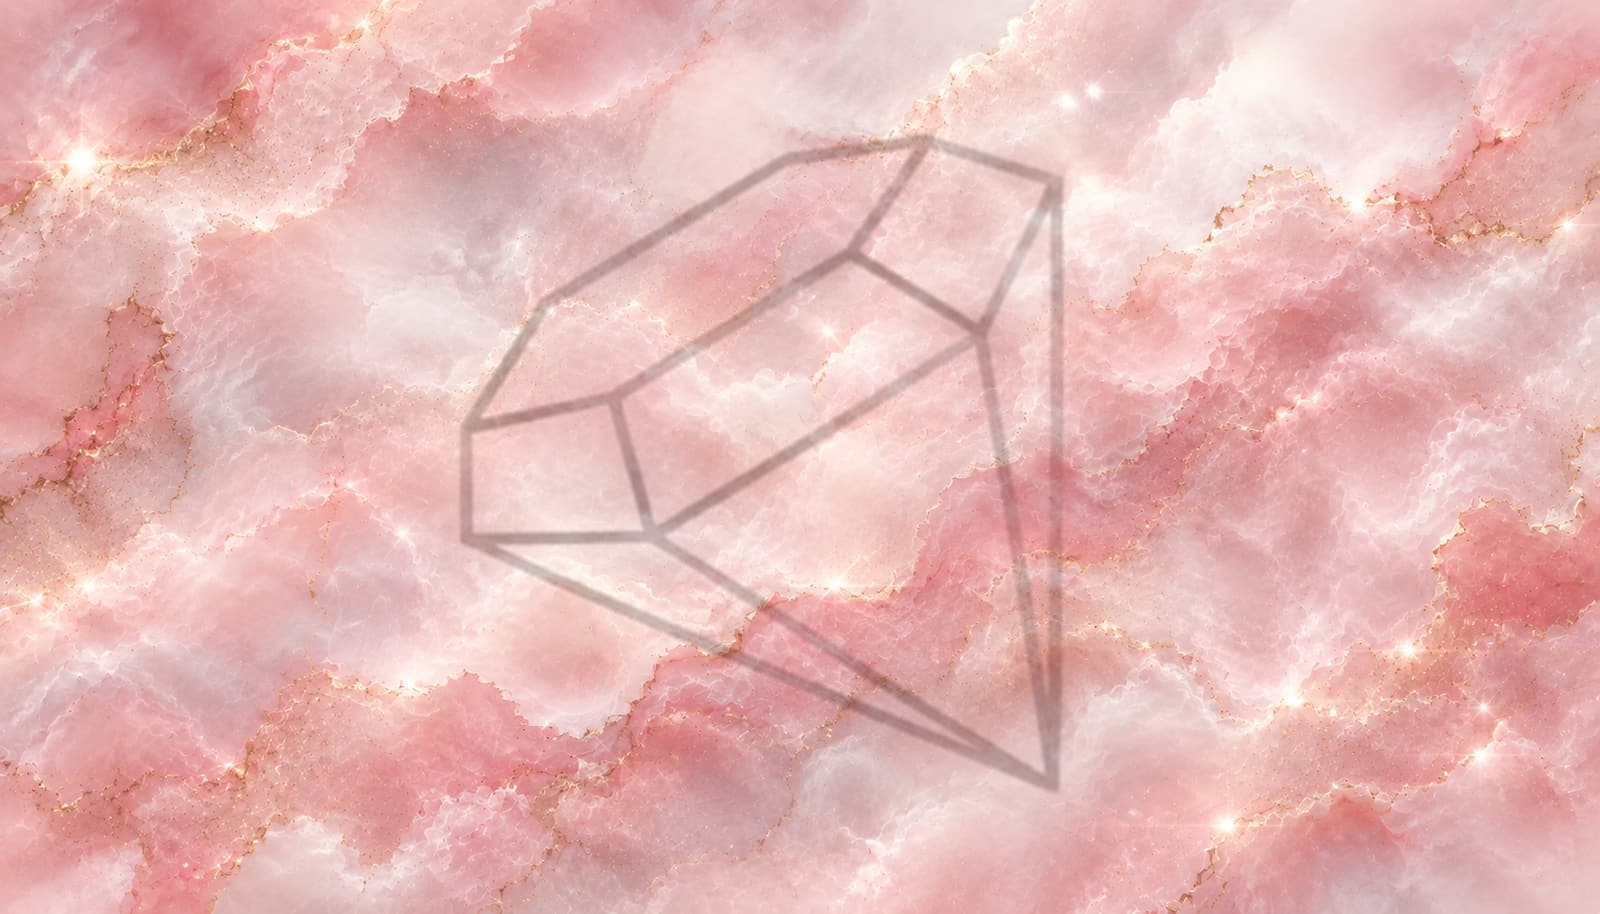
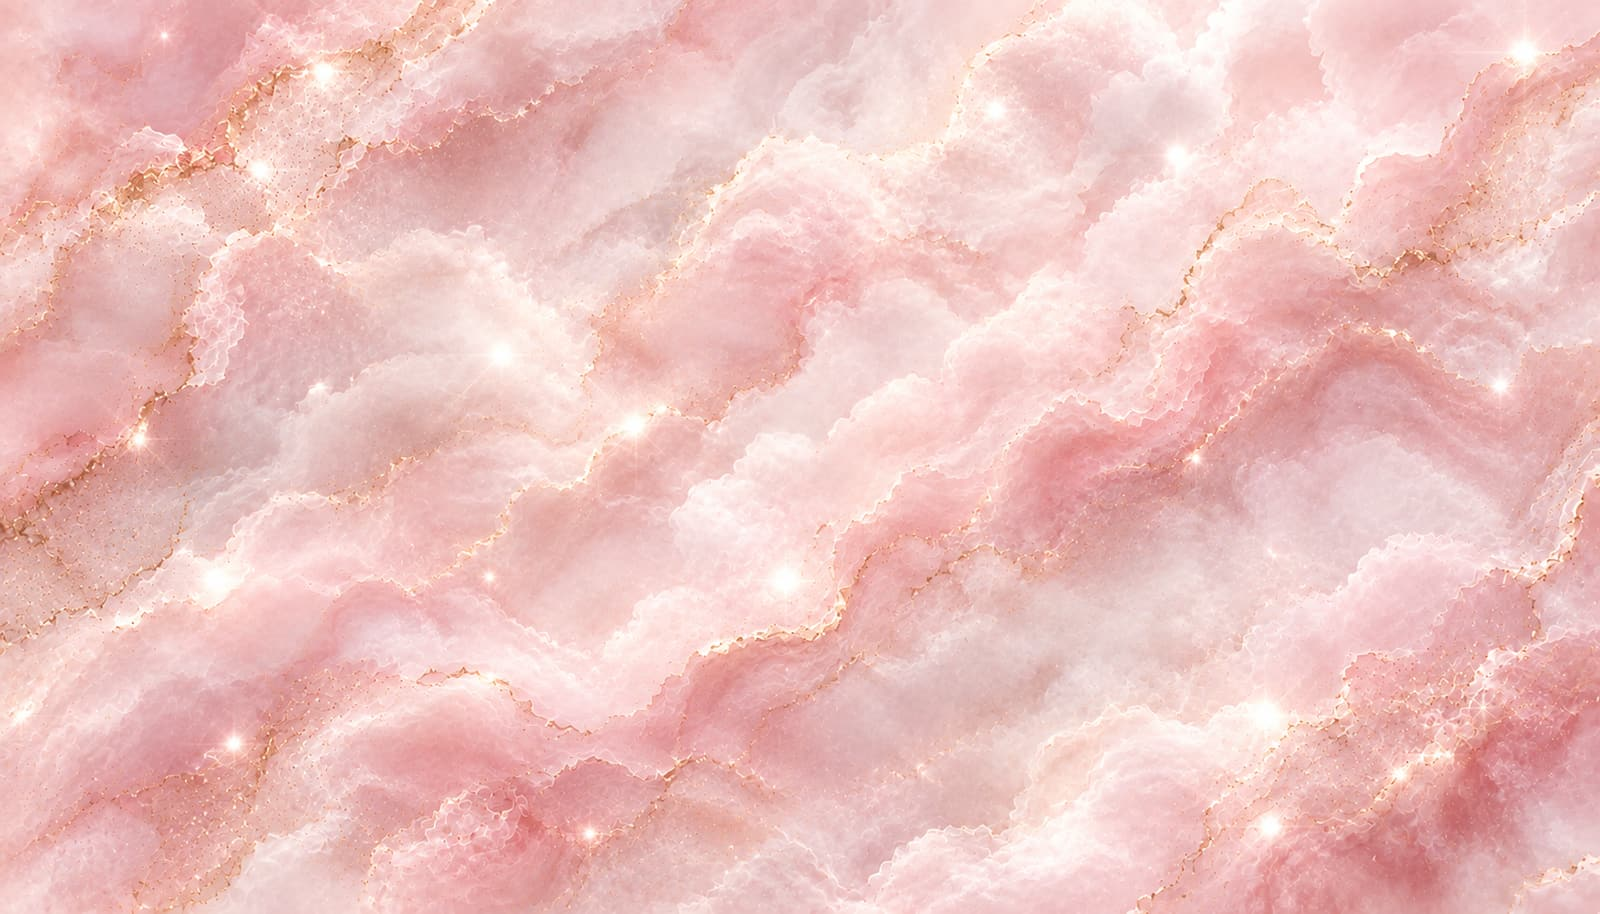
Reemplaza la foto del hero y añade el diamante como SVG
La nueva foto (assets/img/hero-marmol.jpg) es mármol rosa con vetas
doradas sin diamante integrado; el diamante hueco ahora se dibuja con
un SVG propio (.hero__diamond) encima del título, así que sobrevive a
futuros cambios de foto. Refuerza el overlay oscuro (~30-45% en la
zona de texto) porque la nueva foto es más clara.

diff --git a/estilos.css b/estilos.css
@@ -243,8 +243,9 @@ img { max-width: 100%; display: block; }
 .hero__bg {
   position: absolute;
   inset: 0;
-  /* IMG: foto real del cliente (mármol rosa con diamante hueco), optimizada
-     a JPEG ~1600px de ancho / ~120KB para carga rápida en móvil. */
+  /* IMG: foto real del cliente (mármol rosa con vetas doradas), optimizada
+     a JPEG ~1600px de ancho / ~135KB para carga rápida en móvil. El diamante
+     ya no viene en la foto: se dibuja aparte con .hero__diamond (SVG). */
   background-image: url('assets/img/hero-marmol.jpg');
   background-size: cover;
   background-position: center 40%;
@@ -255,14 +256,27 @@ img { max-width: 100%; display: block; }
   position: absolute;
   inset: 0;
   background:
-    radial-gradient(ellipse 55% 42% at 50% 78%, rgba(0, 0, 0, 0.4), transparent 72%),
-    linear-gradient(to bottom, rgba(0, 0, 0, 0) 0%, rgba(0, 0, 0, 0.08) 35%, rgba(0, 0, 0, 0.25) 60%, rgba(0, 0, 0, 0.32) 100%);
+    radial-gradient(ellipse 62% 58% at 50% 72%, rgba(0, 0, 0, 0.45), transparent 74%),
+    linear-gradient(to bottom, rgba(0, 0, 0, 0) 0%, rgba(0, 0, 0, 0.14) 28%, rgba(0, 0, 0, 0.28) 55%, rgba(0, 0, 0, 0.32) 100%);
 }
 
 .hero__content {
   position: relative;
   z-index: 1;
   padding: 0 24px;
+}
+
+.hero__diamond {
+  width: 62px;
+  height: auto;
+  display: block;
+  margin: 0 auto 22px;
+  fill: none;
+  stroke: var(--pink);
+  stroke-width: 2.2;
+  stroke-linejoin: round;
+  stroke-linecap: round;
+  filter: drop-shadow(0 2px 6px rgba(0, 0, 0, 0.35));
 }
 
 .hero__title-wrap {
@@ -291,7 +305,7 @@ img { max-width: 100%; display: block; }
   letter-spacing: 0.3em;
   font-size: 0.8rem;
   color: var(--gold);
-  text-shadow: 0 1px 3px rgba(0, 0, 0, 0.6), 0 4px 16px rgba(0, 0, 0, 0.4);
+  text-shadow: 0 1px 4px rgba(0, 0, 0, 0.75), 0 4px 18px rgba(0, 0, 0, 0.5);
   margin-bottom: 32px;
 }
 

diff --git a/index.html b/index.html
@@ -40,10 +40,14 @@
 
   <!-- HERO -->
   <section id="inicio" class="hero">
-    <!-- IMG: foto real del cliente (assets/img/hero-marmol.jpg, mármol rosa con diamante hueco) -->
+    <!-- IMG: foto real del cliente (assets/img/hero-marmol.jpg, mármol rosa con vetas doradas). El diamante ya no viene en la foto: se dibuja aparte con el SVG de abajo. -->
     <div class="hero__bg" aria-hidden="true"></div>
     <div class="hero__overlay" aria-hidden="true"></div>
     <div class="hero__content container fade-in">
+      <svg class="hero__diamond" viewBox="0 0 100 130" aria-hidden="true">
+        <path d="M25 28 L75 28 L96 54 L50 126 L4 54 Z"/>
+        <path d="M4 54 L96 54"/>
+      </svg>
       <div class="hero__title-wrap">
         <span class="hero__line" aria-hidden="true"></span>
         <h1 class="hero__title">Diamond Beauty</h1>
